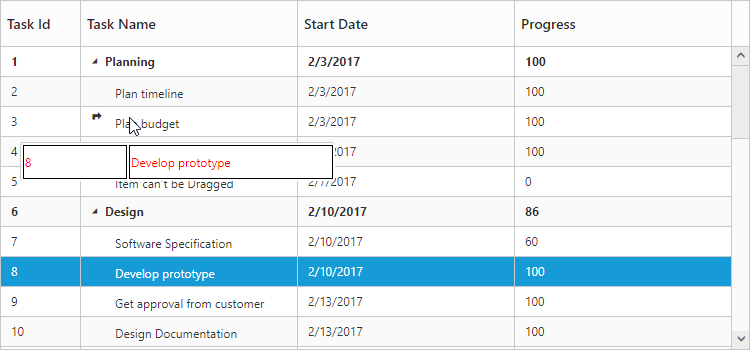
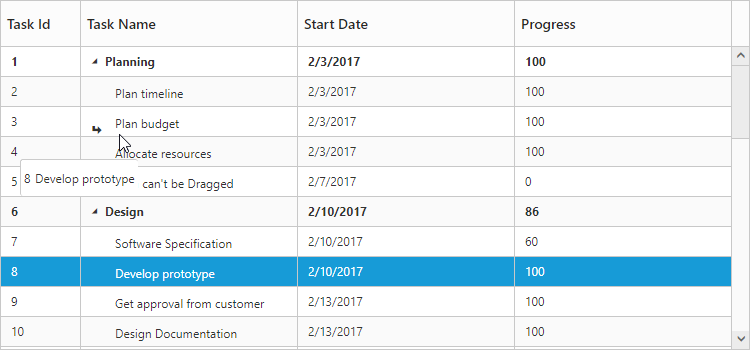
tooltipTemplate changes committed

Changed region(s): [[0.0307, 0.3143, 0.46, 0.5429], [0.368, 0.4571, 0.46, 0.5143], [0.3067, 0.4857, 0.3373, 0.5143]]

diff --git a/aspnetmvc/TreeGrid/Rows.md b/aspnetmvc/TreeGrid/Rows.md
@@ -261,10 +261,10 @@ The following code shows how to render row drag tooltip with JsRender template.
 
 <script id="customTooltip" type="text/x-jsrender">
 	<tr>
-		<td class="border" style='height:30px;border:1px solid black;width:100px;color:red'>
+		<td style='height:30px'>
 			<div>{{"{{"}}:#data['TaskId']{{}}}}</div>
 		</td>
-		<td class="border" style='height:30px;border:1px solid black;width:100px;color:red'>
+		<td style='height:30px'>
 			<div>{{"{{"}}:#data['TaskName']{{}}}}</div>
 		</td>        
 	</tr>
